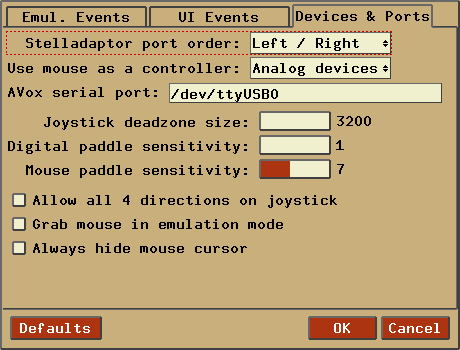
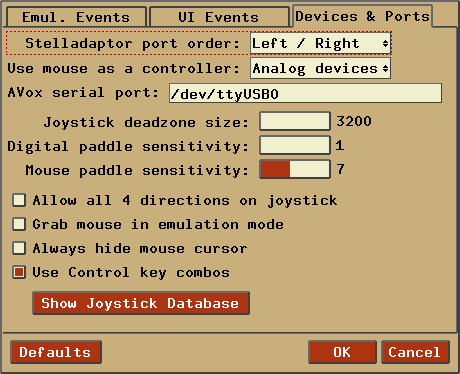
Expose 'ctrlcombo' through the UI.

Changed region(s): [[0.0, 0.0, 0.9739, 0.7429], [0.0, 0.7714, 1.0, 0.9714], [0.9435, 0.0571, 1.0, 0.0857]]

diff --git a/docs/index.html b/docs/index.html
@@ -2617,7 +2617,9 @@
           <tr><td>Mouse paddle sensitivity</td><td>Sensitivity used when emulating a paddle using a mouse</td><td>-msense</td></tr>
           <tr><td>Allow all 4 ...</td><td>Allow all 4 joystick directions to be pressed simultaneously</td><td>-joyallow4</td></tr>
           <tr><td>Grab mouse ...</td><td>Keep mouse in window in emulation mode</td><td>-grabmouse</td></tr>
-          <tr><td>Always hide mouse ...</td><td>completely disable showing the mouse cursor</td><td>-hidemouse</td></tr>
+          <tr><td>Always hide mouse ...</td><td>Completely disable showing the mouse cursor</td><td>-hidemouse</td></tr>
+          <tr><td>Use Control key combos</td><td>Enable using Control key in keyboard actions</td><td>-ctrlcombo</td></tr>
+          <tr><td>Show Joystick Database</td><td>Show all joysticks that Stella knows about, with the option to remove them</td><td>&nbsp;</td></tr>
         </table>
       </td>
     </tr>
